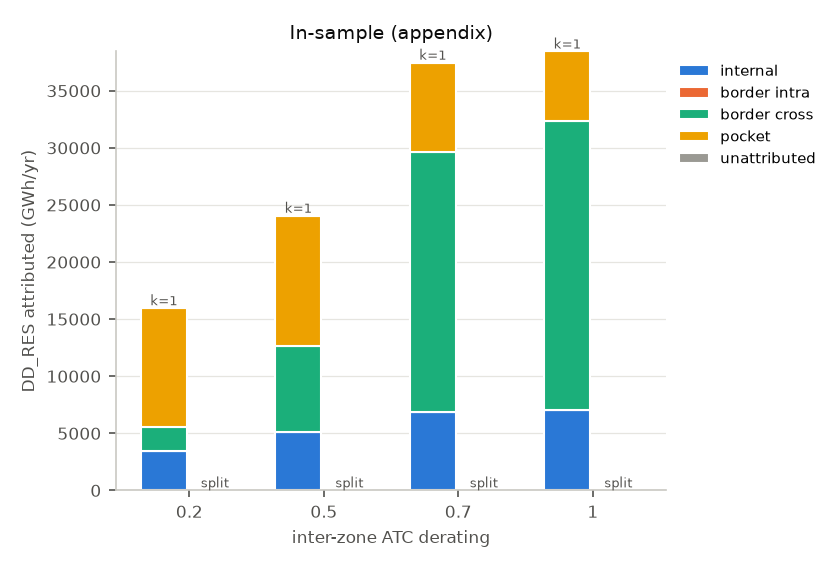
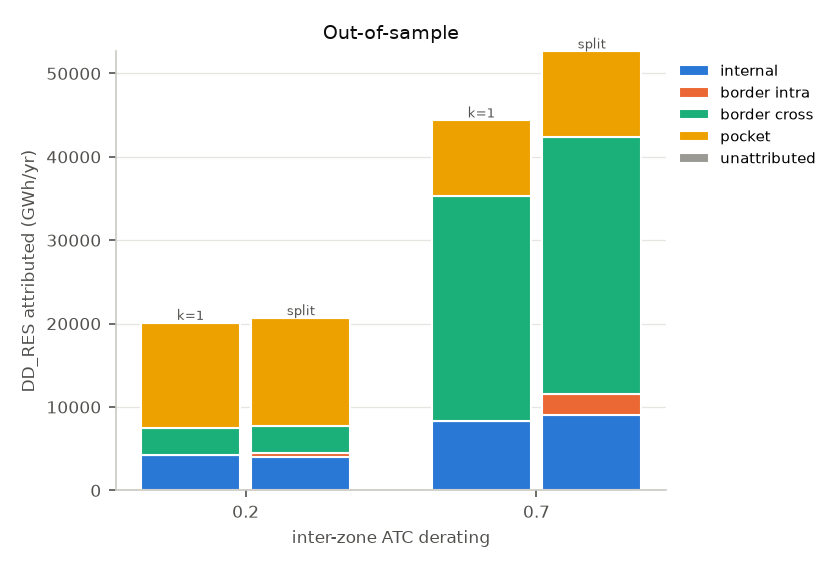
Validate: out-of-sample check at derating 0.2 does not confirm the scan
Refit alpha = 2 map (odd weeks), scored on even weeks at derating 0.2:
dDD_RES +0.56 TWh/yr (week-block 95% CI +0.29 to +0.99). The -1.4 TWh/yr
seen in the in-sample 200-hour scan does not hold out of sample. At 0.7:
+8.3 TWh/yr. All asserted cost checks pass.

Claude-Session: https://claude.ai/code/session_01Xq5TRT6MZ78NDn6YnSkUQb

diff --git a/bidding_zones/reports/validate.md b/bidding_zones/reports/validate.md
@@ -20,7 +20,7 @@ Dispatch down in this model is **entirely constraint-driven**. A DC-OPF has no S
 
 **Out-of-sample (primary).** Splitting DE does **not** demonstrably reduce dispatch down under this model: dispatch down is higher with DE split, and the interval excludes zero.
 
-ΔDD_RES (split − k=1) at derating 0.7: **+8,266 GWh/yr**; week-block 95% CI [+6,545, +10,170]; derating band [+8,266, +8,266]; sibling band [+8,266, +8,266] over 1 map(s).
+ΔDD_RES (split − k=1) at derating 0.7: **+8,266 GWh/yr**; week-block 95% CI [+6,545, +10,170]; derating band [+564, +8,266]; sibling band [+8,266, +8,266] over 1 map(s).
 
 Negative ΔDD means less dispatch down with DE split.
 
@@ -90,9 +90,10 @@ All of `results/validate.csv`, abridged (GWh/yr, M€/yr; shed energy is reporte
 
 |                                   |   DD_RES_GWh |   DD_RES_TH_GWh |   DD_share_of_avail_res |   internal_share |   border_share |   C_redispatch_MEUR |   C_total_MEUR |   efficiency_gap |   lp_infeasible_hours |   np_undeliverable_hours |   np_slack_focus_GWh |   shed_hours_excl_pockets |   shed_focus_GWh |   shed_pocket_GWh |   dDD_RES_GWh |   dDD_RES_lo |   dDD_RES_hi |
 |:----------------------------------|-------------:|----------------:|------------------------:|-----------------:|---------------:|--------------------:|---------------:|-----------------:|----------------------:|-------------------------:|---------------------:|--------------------------:|-----------------:|------------------:|--------------:|-------------:|-------------:|
-| ('insample', 'k1', 0.7)           |      44365.4 |          115551 |                   0.179 |            0.235 |          0.765 |             72274.6 |         138966 |            0.161 |                     0 |                     4331 |              1292.61 |                      3930 |          7389.61 |           10083.8 |        nan    |       nan    |        nan   |
-| ('oos_even', 'k1', 0.7)           |      44365.4 |          115551 |                   0.179 |            0.235 |          0.765 |             72274.6 |         138966 |            0.161 |                     0 |                     4331 |              1292.61 |                      3930 |          7389.61 |           10083.8 |        nan    |       nan    |        nan   |
-| ('oos_even', 'oos_headline', 0.7) |      52631.5 |          136685 |                   0.212 |            0.213 |          0.787 |             75154.7 |         141846 |            0.185 |                     0 |                     4332 |              3678.09 |                      4005 |          7678.98 |           10054.7 |       8266.16 |      6545.15 |      10169.8 |
+| ('oos_even', 'k1', 0.2)           |      20089.5 |         45932.9 |                   0.081 |            0.565 |          0.435 |             36879.8 |         131140 |            0.095 |                     0 |                     1959 |                0.605 |                      2427 |          7067.55 |           9823.67 |       nan     |      nan     |      nan     |
+| ('oos_even', 'oos_headline', 0.2) |      20653.6 |         52752.2 |                   0.083 |            0.518 |          0.482 |             37174.4 |         131444 |            0.098 |                     0 |                     1958 |               14.911 |                      2427 |          7067.55 |           9823.75 |       564.073 |      289.194 |      990.777 |
+| ('oos_even', 'k1', 0.7)           |      44365.4 |        115551   |                   0.179 |            0.235 |          0.765 |             72274.6 |         138966 |            0.161 |                     0 |                     4331 |             1292.61  |                      3930 |          7389.61 |          10083.8  |       nan     |      nan     |      nan     |
+| ('oos_even', 'oos_headline', 0.7) |      52631.5 |        136685   |                   0.212 |            0.213 |          0.787 |             75154.7 |         141846 |            0.185 |                     0 |                     4332 |             3678.09  |                      4005 |          7678.98 |          10054.7  |      8266.16  |     6545.15  |    10169.8   |
 
 ![ΔDD versus derating](../figures/validate/delta_dd_vs_derating.png)
 
@@ -113,11 +114,14 @@ Reference: 20–30 TWh/yr (unsourced, from the brief). Nothing is tuned to match
 
 Asserted: `C_market ≤ C_nodal` every hour at derating 1 (the zonal model is a relaxation only there; at lower deratings the ATC is below what the physical cut carries, so violations are reported, not asserted); `C_market(k=1) ≤ C_market(split)` every hour; `C_market + C_redispatch ≥ C_nodal` every feasible hour. Tolerance 1e-06·|C| + €10.
 
-|                                                   |   runs |   hours |   violations |   max_excess_EUR |
-|:--------------------------------------------------|-------:|--------:|-------------:|-----------------:|
-| ('C_market + C_redispatch >= C_nodal', 0.7, True) |      3 |   13104 |            0 |        -55029.2  |
-| ('C_market <= C_nodal', 0.7, False)               |      3 |   13104 |            0 |         -8861.96 |
-| ('C_market(k=1) <= C_market(split)', 0.7, True)   |      1 |    4368 |            0 |             0    |
+|                                                   |   runs |   hours |   violations |    max_excess_EUR |
+|:--------------------------------------------------|-------:|--------:|-------------:|------------------:|
+| ('C_market + C_redispatch >= C_nodal', 0.2, True) |      2 |    8736 |            0 | -188597           |
+| ('C_market + C_redispatch >= C_nodal', 0.7, True) |      2 |    8736 |            0 |  -55029.2         |
+| ('C_market <= C_nodal', 0.2, False)               |      2 |    8736 |          976 |       2.09433e+06 |
+| ('C_market <= C_nodal', 0.7, False)               |      2 |    8736 |            0 |   -8861.96        |
+| ('C_market(k=1) <= C_market(split)', 0.2, True)   |      1 |    4368 |            0 |       0           |
+| ('C_market(k=1) <= C_market(split)', 0.7, True)   |      1 |    4368 |            0 |       0           |
 
 **All asserted checks pass.**
 
